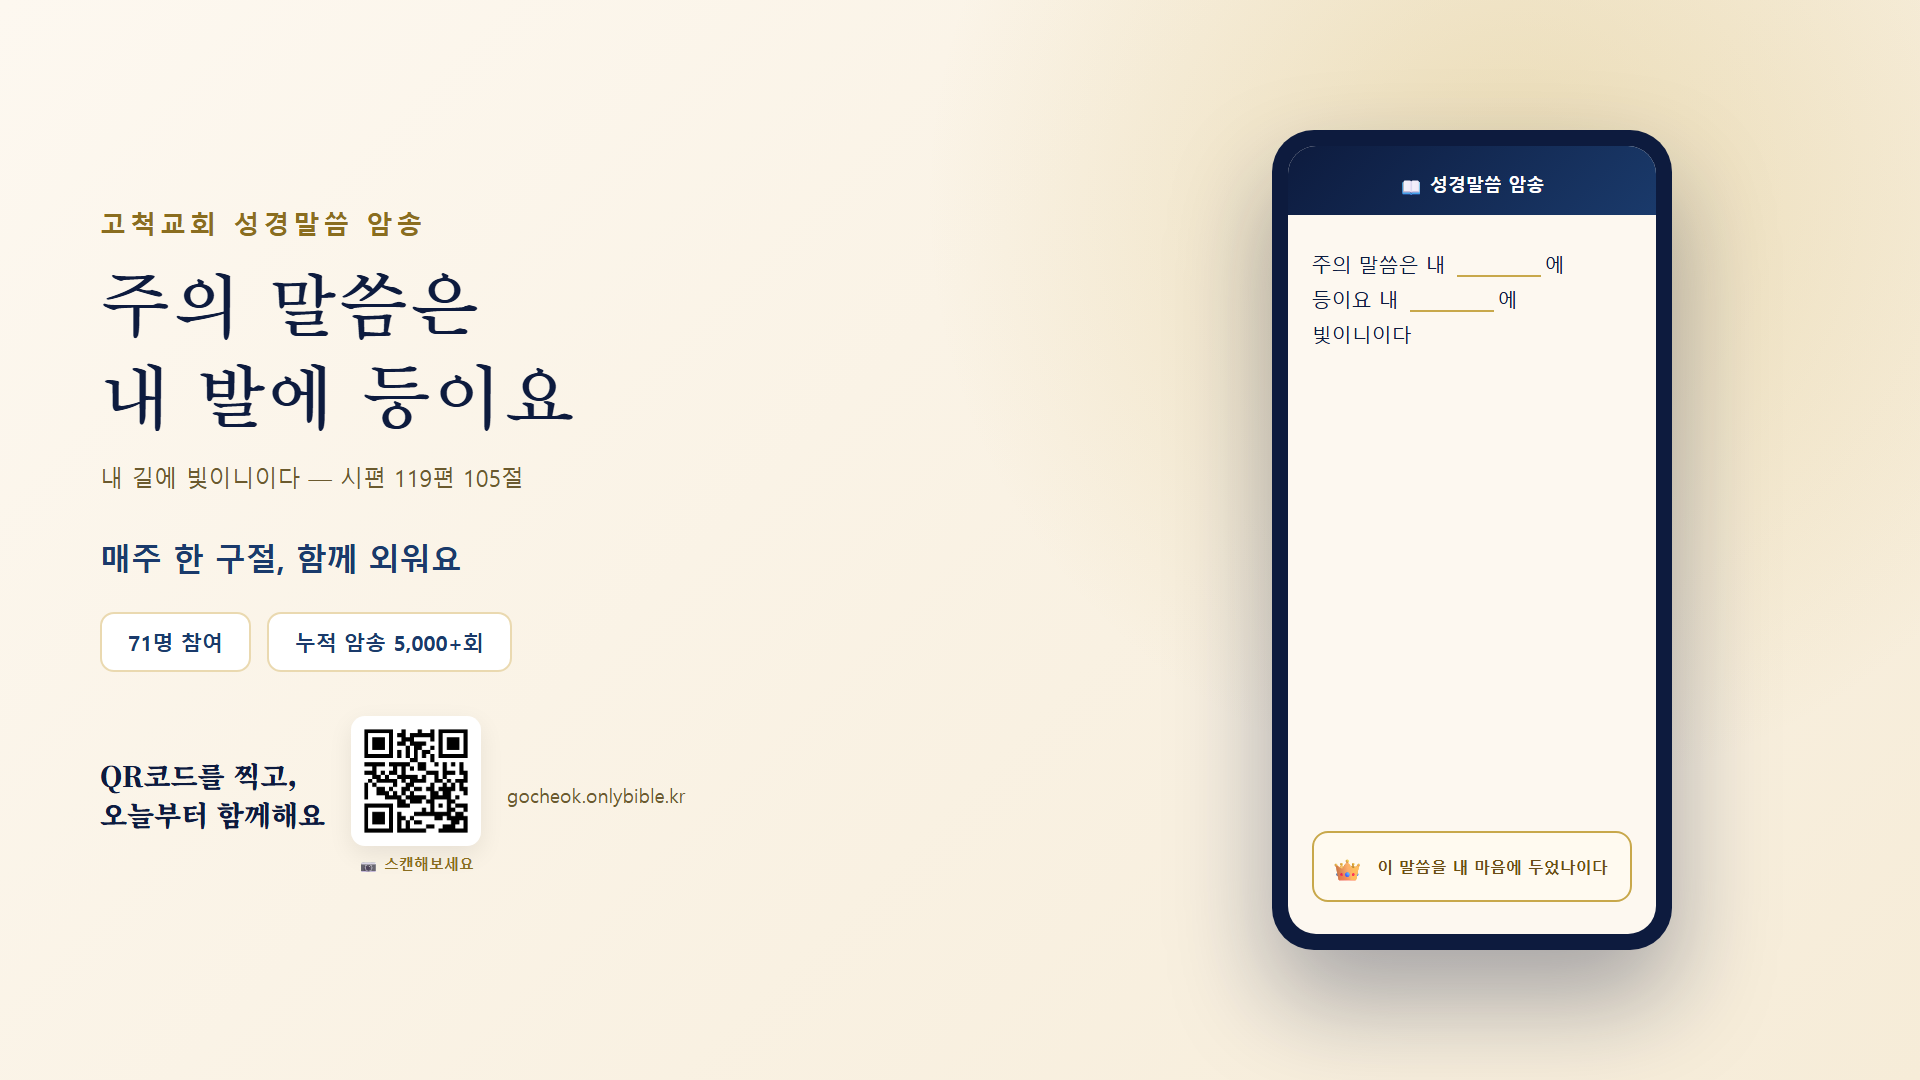
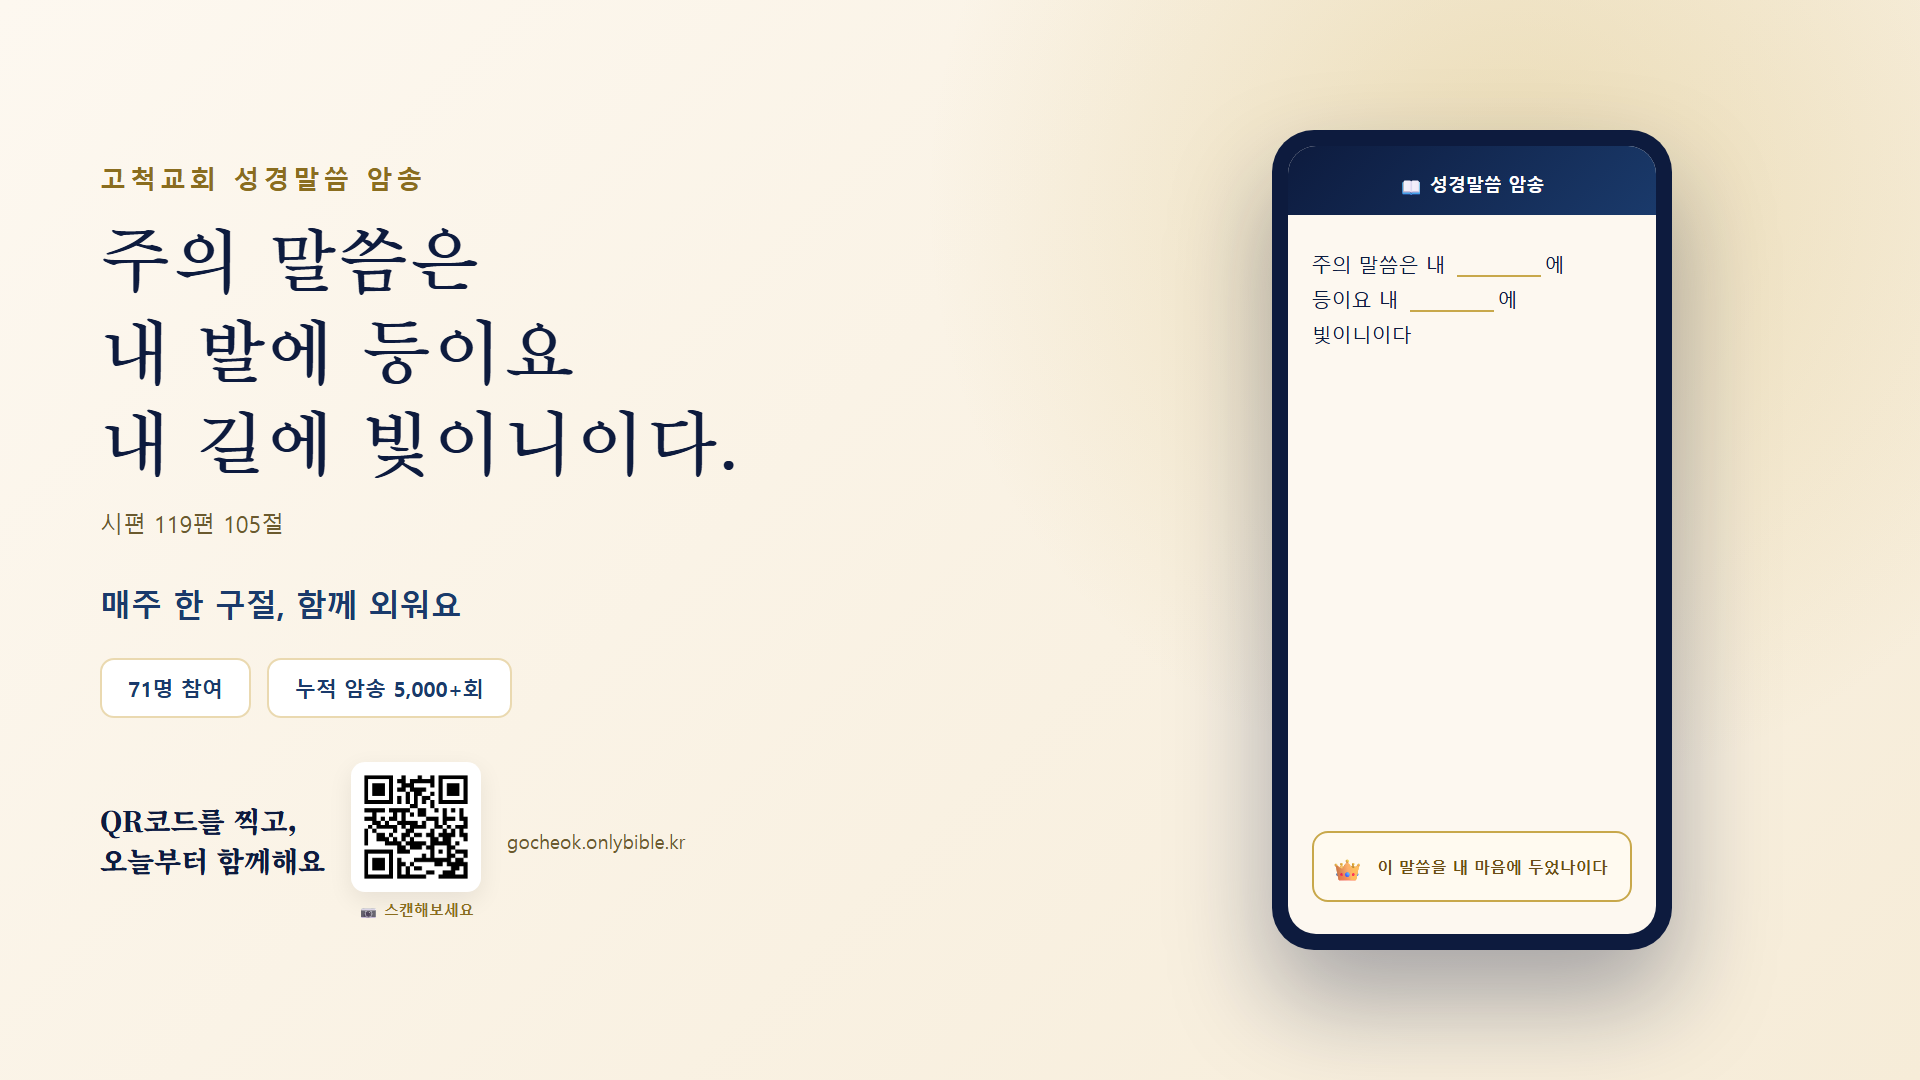
fix(홍보 소재): 포스터 헤드라인을 시편 119:105 전체 구절로 변경

Changed region(s): [[0.0312, 0.1528, 0.375, 0.8556]]

diff --git a/marketing/poster-horizontal.html b/marketing/poster-horizontal.html
@@ -39,8 +39,8 @@
   <div class="wrap">
     <div class="left">
       <div class="kicker">고척교회 성경말씀 암송</div>
-      <div class="headline">주의 말씀은<br>내 발에 등이요</div>
-      <div class="verse-ref">내 길에 빛이니이다 — 시편 119편 105절</div>
+      <div class="headline">주의 말씀은<br>내 발에 등이요<br>내 길에 빛이니이다.</div>
+      <div class="verse-ref">시편 119편 105절</div>
       <div class="invite">매주 한 구절, 함께 외워요</div>
       <div class="stats">
         <div class="stat-chip">71명 참여</div>

diff --git a/marketing/poster-vertical.html b/marketing/poster-vertical.html
@@ -65,8 +65,8 @@
   <div class="glow"></div>
   <div class="content">
     <div class="kicker">고척교회 성경말씀 암송</div>
-    <div class="headline">주의 말씀은<br>내 발에 등이요</div>
-    <div class="verse-ref">내 길에 빛이니이다 — 시편 119편 105절</div>
+    <div class="headline">주의 말씀은 내 발에 등이요<br>내 길에 빛이니이다.</div>
+    <div class="verse-ref">시편 119편 105절</div>
 
     <div class="phone">
       <div class="phone-screen">
